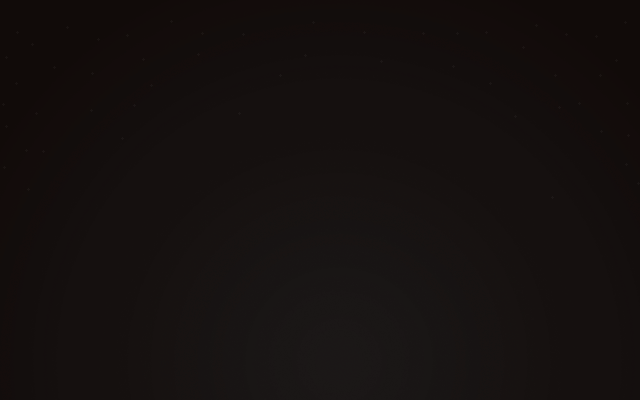
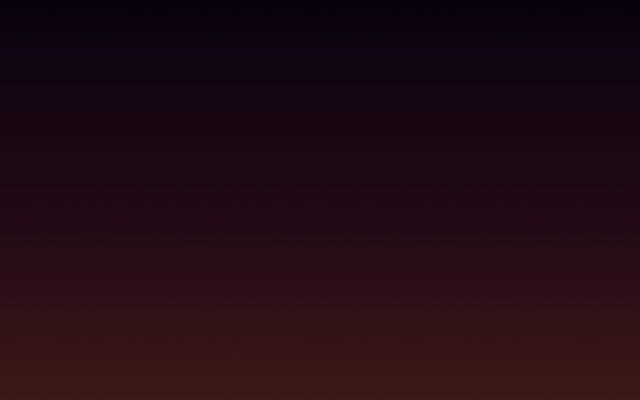
modified background for paralllex movement, modified the seed generator to make slopes less steep

Changed region(s): [[0.0, 0.69, 1.0, 1.0]]

diff --git a/LGDX/core/src/com/mygdx/game/Background.java b/LGDX/core/src/com/mygdx/game/Background.java
@@ -1,24 +1,43 @@
 package com.mygdx.game;
 
 import com.badlogic.gdx.Gdx;
+import com.badlogic.gdx.graphics.Color;
 import com.badlogic.gdx.graphics.Texture;
 import com.badlogic.gdx.graphics.g2d.SpriteBatch;
 
 public class Background {
 	private Texture bg;
+	private Texture stars0;
+	private Texture stars1;
 	
 	public void Release()
 	{
 		bg.dispose();
+		stars0.dispose();
+		stars1.dispose();
 	}
 	
-	public Background(String Filename)
+	public Background()
 	{
-		bg = new Texture( Gdx.files.internal(Filename) );
+		bg = new Texture( Gdx.files.internal("bg.png") );
+		stars0 = new Texture( Gdx.files.internal("stars.png") );
+		stars1 = new Texture( Gdx.files.internal("stars1.png") );
 	}
 	
-	public void Draw(SpriteBatch Batch)
+	public void Draw(SpriteBatch Batch, int PlayerX)
 	{
 		Batch.draw(bg, 0, 0, Game.SCREENW, Game.SCREENH);
+		
+		int offset0 = (PlayerX/6) % Game.SCREENW;
+		Batch.setColor(1.0f, 1.0f, 1.0f, 0.2f);
+		Batch.draw(stars0, -offset0, 0, Game.SCREENW, Game.SCREENH);
+		Batch.draw(stars0, Game.SCREENW-offset0, 0, Game.SCREENW, Game.SCREENH);
+		
+		int offset1 = (PlayerX/12) % Game.SCREENW;
+		Batch.setColor(1.0f, 1.0f, 1.0f, 0.5f);
+		Batch.draw(stars1, -offset1, 0, Game.SCREENW, Game.SCREENH);
+		Batch.draw(stars1, Game.SCREENW-offset1, 0, Game.SCREENW, Game.SCREENH);
+		
+		Batch.setColor(Color.WHITE);
 	}
 }

diff --git a/LGDX/core/src/com/mygdx/game/Game.java b/LGDX/core/src/com/mygdx/game/Game.java
@@ -52,7 +52,7 @@ public class Game extends ApplicationAdapter
 		ter = new Terrain( SeedGenerator.GenerateSeed(WORLDW, WORLDH, 8) );
 		
 		// create the tank, background and ui
-		bg = new Background("bg.png");
+		bg = new Background();
 		ui = new UI("ui.png");
 		tank = new Tank("Tank1.png", ter, 60);
 		
@@ -96,7 +96,7 @@ public class Game extends ApplicationAdapter
 	
 	private void DrawScene()
 	{
-		bg.Draw(batch);
+		bg.Draw(batch, (int)tank.GetPos().x);
 		ter.Draw(batch, cam.GetPos());
 		tank.Draw(batch, cam.GetPos());
 		
@@ -104,7 +104,7 @@ public class Game extends ApplicationAdapter
 		while (i.hasNext()) 
 			i.next().Draw(batch, cam.GetPos());
 		
-		//ui.Draw(batch);
+		ui.Draw(batch);
 	}
 	
 	private void UpdatePos()

diff --git a/LGDX/core/src/com/mygdx/game/SeedGenerator.java b/LGDX/core/src/com/mygdx/game/SeedGenerator.java
@@ -19,7 +19,7 @@ public class SeedGenerator
 			int x = i*peakspace + (int)(Math.random()*8);
 			int s = (int)(Math.random()*6);
 			int w = (int)(Math.random()*256) + peakspace + 128;
-			int h = (int)(Math.random() * w * 0.7);
+			int h = (int)(Math.random() * w * 0.4);
 			h *= (int)(Math.random()*2) * 2 - 1; // 50/50 invert height
 			
 			Seed.AddPeak(x, s, w, h);

diff --git a/LGDX/core/src/com/mygdx/game/Gunman.java b/LGDX/core/src/com/mygdx/game/Gunman.java
@@ -5,7 +5,7 @@ import com.badlogic.gdx.math.Vector2;
 
 public class Gunman extends Entity
 {
-	private static AnimTex anim;
+	private AnimTex anim;
 	
 	public void Release()
 	{
